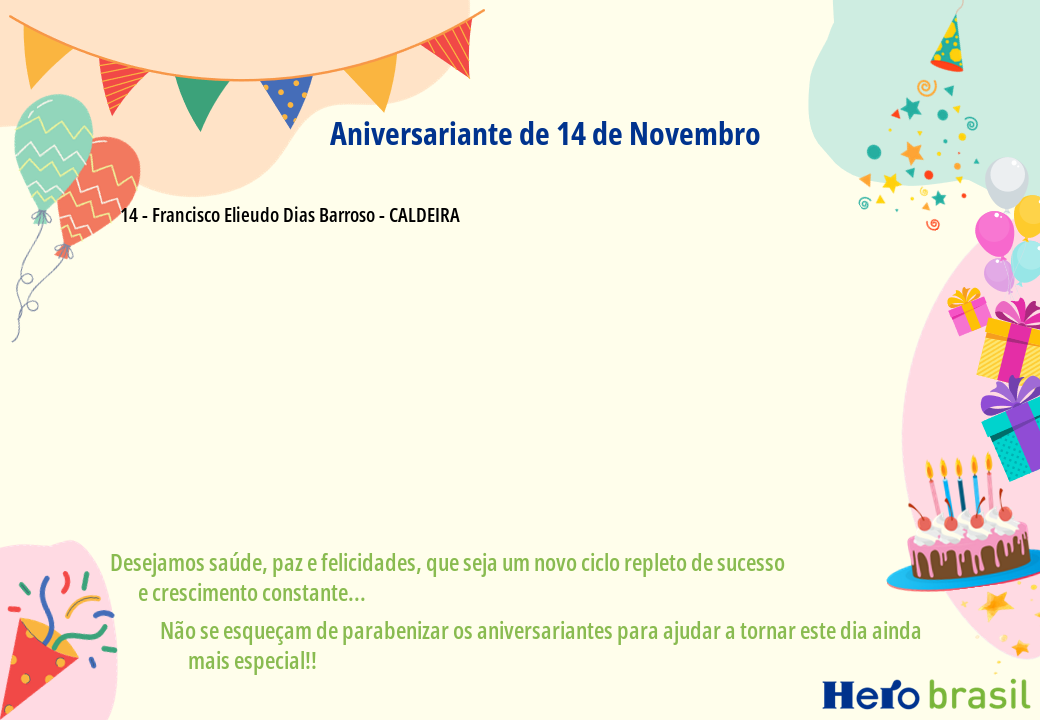
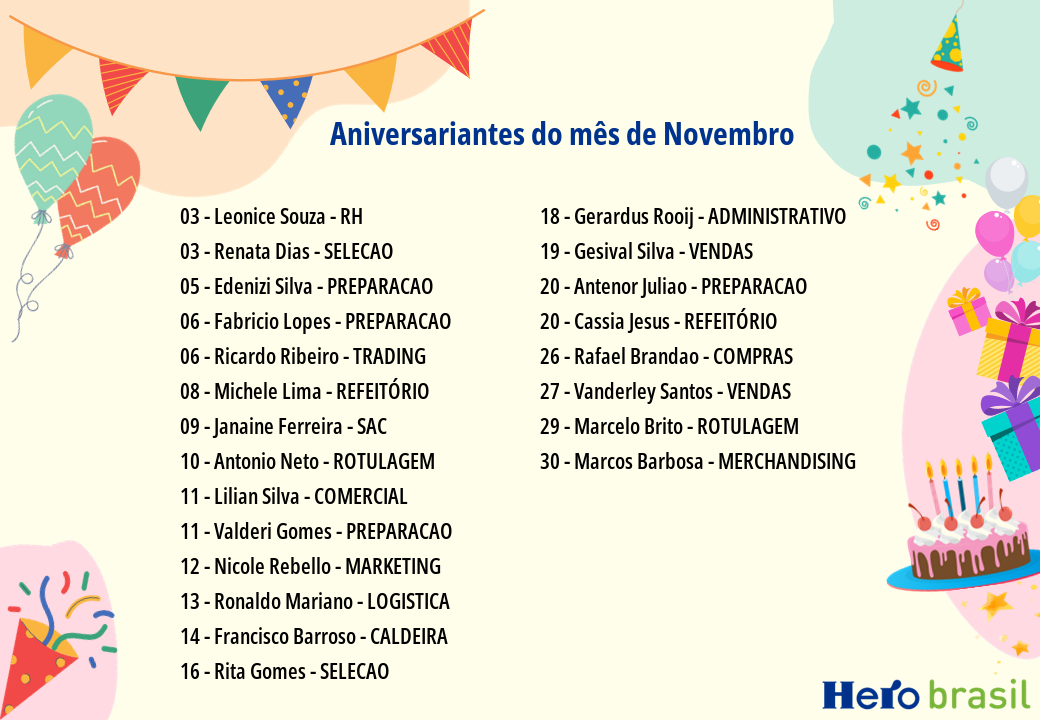
Doing some minor changes in the code.

diff --git a/database/consults.py b/database/consults.py
@@ -1,9 +1,10 @@
+import pandas
 from database.conect import consults_manager
 from datetime import datetime
 from datetime import timedelta
 
 
-def all_employees():
+def all_employees() -> pandas.DataFrame:
 
     sql = """SELECT R034FUN.NOMFUN, 
                     R034FUN.DATNAS, 
@@ -12,7 +13,7 @@ def all_employees():
                     FROM VETORH.R034FUN 
                     INNER JOIN VETORH.R018CCU ON R018CCU.CODCCU = R034FUN.CODCCU
                     WHERE R034FUN.SITAFA IN ('1', '2', '3', '4', '6')
-                    ORDER BY TO_CHAR(R034FUN.DATNAS,'DD-MM')"""
+                    ORDER BY TO_CHAR(R034FUN.DATNAS,'DD')"""
 
     return consults_manager(sql)
 
@@ -27,9 +28,11 @@ def day_birthday() -> dict:
         if data_in_row.datnas.strftime("%d/%m") == datetime.today().strftime("%d/%m"):
 
             full_name = data_in_row.nomfun.title().strip()
+            first_name, *middle, last_name = full_name.split()
+            brev_name = first_name + " " + last_name
             date_nasci = data_in_row.datnas
             name_ccu = data_in_row.nomccu
-            birthdays_employees[full_name] = {"nome": full_name, "nascimento": date_nasci, "departamento": name_ccu}
+            birthdays_employees[full_name] = {"nome": brev_name, "nascimento": date_nasci, "departamento": name_ccu}
 
     return birthdays_employees
 
@@ -48,9 +51,11 @@ def weekend_birthday() -> dict:
         if data_in_row.datnas.strftime("%d/%m") == saturday.strftime("%d/%m") or data_in_row.datnas.strftime("%d/%m") == sunday.strftime("%d/%m"):
 
             full_name = data_in_row.nomfun.title().strip()
+            first_name, *middle, last_name = full_name.split()
+            brev_name = first_name + " " + last_name
             date_nasci = data_in_row.datnas
             name_ccu = data_in_row.nomccu
-            birthdays_employees[full_name] = {"nome": full_name, "nascimento": date_nasci, "departamento": name_ccu}
+            birthdays_employees[full_name] = {"nome": brev_name, "nascimento": date_nasci, "departamento": name_ccu}
 
     return birthdays_employees
 
@@ -65,8 +70,10 @@ def month_birthday() -> dict:
         if data_in_row.datnas.strftime("%m") == datetime.today().strftime("%m"):
 
             full_name = data_in_row.nomfun.title().strip()
+            first_name, *middle, last_name = full_name.split()
+            brev_name = first_name + " " + last_name
             date_nasci = data_in_row.datnas
             name_ccu = data_in_row.nomccu
-            birthdays_employees[full_name] = {"nome": full_name, "nascimento": date_nasci, "departamento": name_ccu}
+            birthdays_employees[full_name] = {"nome": brev_name, "nascimento": date_nasci, "departamento": name_ccu}
 
     return birthdays_employees

diff --git a/main.py b/main.py
@@ -6,8 +6,10 @@ TODAY = datetime.today()
 GREETINGS = "Desejamos saúde, paz e felicidades, que seja um novo ciclo repleto de sucesso\n\t\te crescimento constante..."
 GREETINGS2 = "Não se esqueçam de parabenizar os aniversariantes para ajudar a tornar este dia ainda\n\t\tmais especial!!"
 
+birthdays_day = day_birthday()
 
-def data_to_image(dict_birthdays: dict, messages: str, **kwargs):
+
+def data_to_image(dict_birthdays: dict, messages: str, **kwargs) -> None:
 
     if len(dict_birthdays) > 0:
 
@@ -22,7 +24,7 @@ def data_to_image(dict_birthdays: dict, messages: str, **kwargs):
 
 
 # Day birthday
-if len(day_birthday()) > 0:
+if len(birthdays_day) > 0:
 
     if TODAY.day < 10:
         day = f"0{TODAY.day}"
@@ -31,10 +33,10 @@ if len(day_birthday()) > 0:
 
     message = f" de {day} de {TODAY.strftime('%B').title()}"
 
-    data_to_image(day_birthday(), message, greetings=GREETINGS, greetings2=GREETINGS2)
+    data_to_image(birthdays_day, message, greetings=GREETINGS, greetings2=GREETINGS2)
 
 # Month birthdays
-if TODAY.day == 1:
+if TODAY.day == 14:
 
     message = " do mês de " + TODAY.strftime("%B").title()
 

diff --git a/images/draw_image.py b/images/draw_image.py
@@ -5,7 +5,7 @@ import locale
 locale.setlocale(locale.LC_ALL, "pt_BR.utf8")
 
 
-def birthdays_image(**kwargs):
+def birthdays_image(**kwargs) -> None:
 
     title = kwargs.get("title")
     greetings = kwargs.get("greetings")
@@ -13,12 +13,12 @@ def birthdays_image(**kwargs):
 
     count = 0
     pos_y = 200
-    pos_x = 120
+    pos_x = 180
     dict_birthdays = kwargs.get("dict_birthdays")
 
     path_background_image = Path("images/background.png")
     font_title = ImageFont.truetype("C:/fonts/OpenSans_Condensed-Bold.ttf", size=32)
-    font_text = ImageFont.truetype("C:/fonts/OpenSans_Condensed-SemiBold.ttf", size=20)
+    font_text = ImageFont.truetype("C:/fonts/OpenSans_Condensed-SemiBold.ttf", size=22)
     font_greatings = ImageFont.truetype("C:/fonts/OpenSans_Condensed-SemiBold.ttf", size=24)
 
     img = Image.open(path_background_image)

diff --git a/database/conect.py b/database/conect.py
@@ -2,11 +2,11 @@ import sqlalchemy
 import pandas
 from secret import secret_keys
 
-ENGINE = sqlalchemy.create_engine(f"oracle+cx_oracle://{secret_keys.DATABASE_USER}:{secret_keys.DATABASE_PASSWORD}@"
-                                  f"{secret_keys.DATABASE_HOST}/?service_name={secret_keys.DATABASE}",
-                                  arraysize=1000)
+ENGINE: sqlalchemy.Engine = sqlalchemy.create_engine(
+    f"oracle+cx_oracle://{secret_keys.DATABASE_USER}:{secret_keys.DATABASE_PASSWORD}@"
+    f"{secret_keys.DATABASE_HOST}/?service_name={secret_keys.DATABASE}",
+    arraysize=1000)
 
 
 def consults_manager(sql) -> pandas.DataFrame:
-
     return pandas.read_sql(sql, ENGINE)
